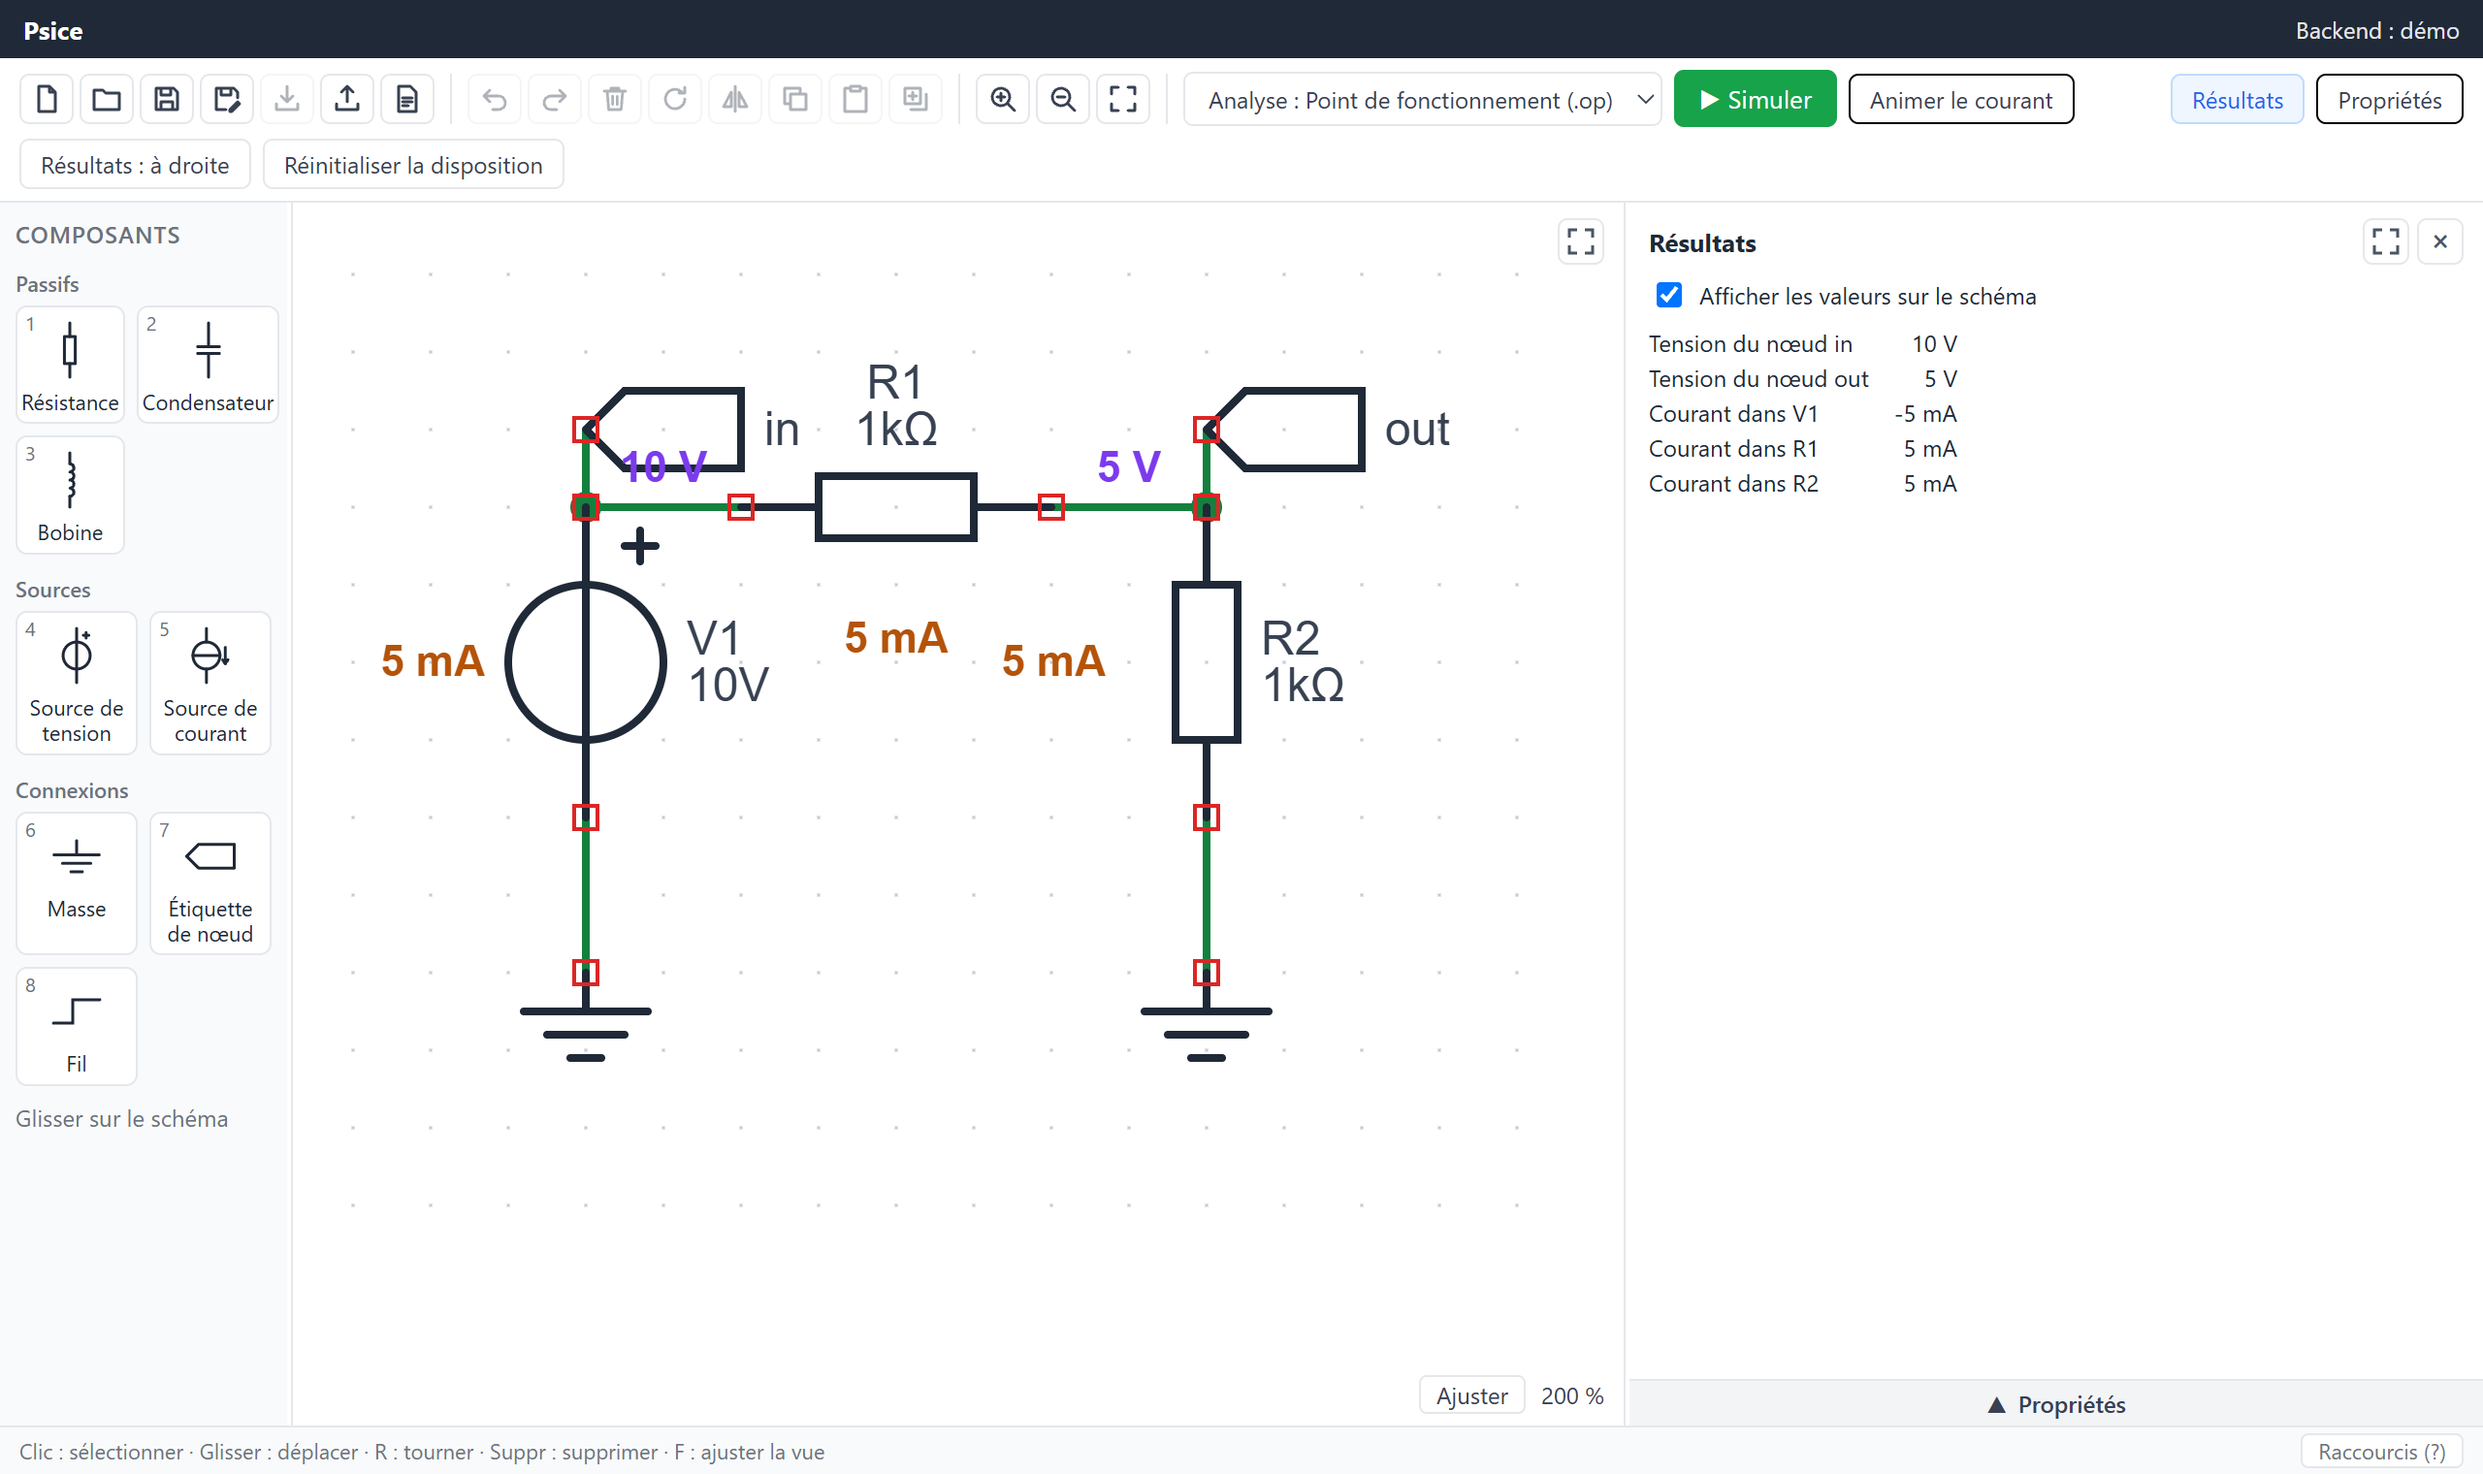
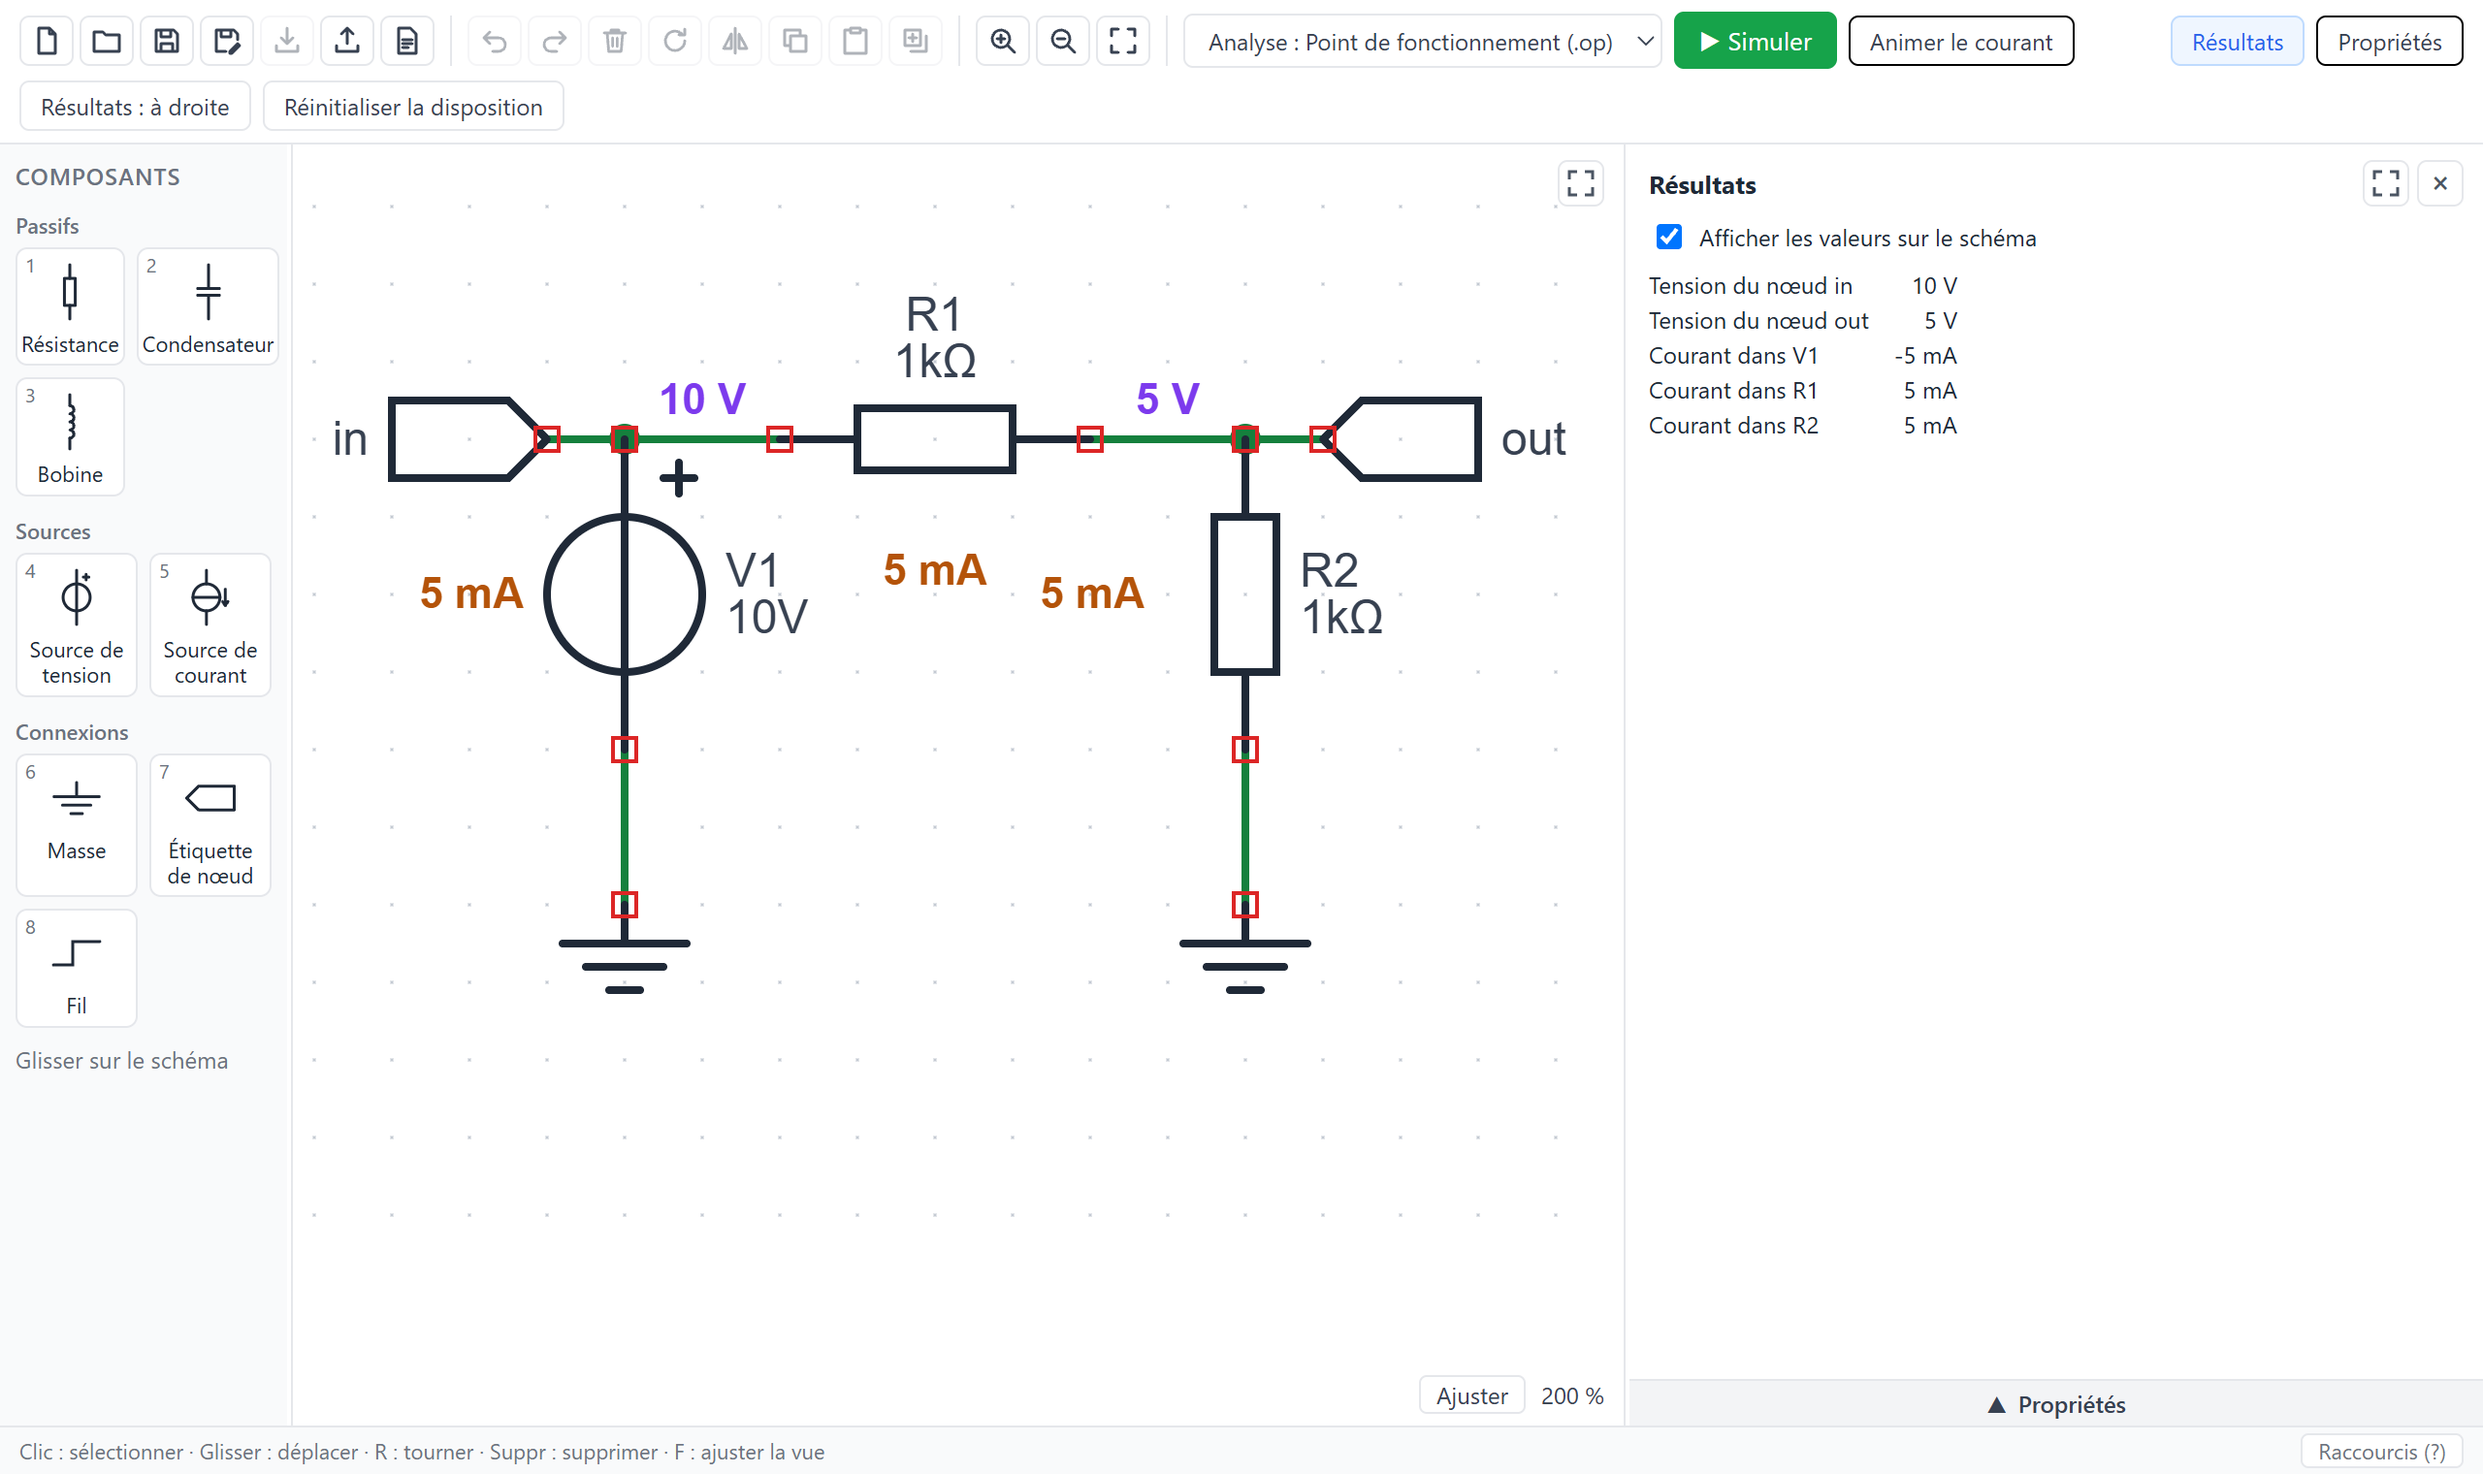
fix(fixtures): put the divider labels on each side of the top wire

diff --git a/docs/exemples-netlist.md b/docs/exemples-netlist.md
@@ -68,9 +68,9 @@ V1 = 10 V, R1 = R2 = 1 kΩ, point de fonctionnement `.op`.
         "rotation": 0, "mirror": false, "params": {} },
       { "id": "c5", "type": "ground", "position": { "x": 8, "y": 4 },
         "rotation": 0, "mirror": false, "params": {} },
-      { "id": "c6", "type": "label", "position": { "x": 0, "y": -3 },
-        "rotation": 0, "mirror": false, "params": { "net": "in" } },
-      { "id": "c7", "type": "label", "position": { "x": 8, "y": -3 },
+      { "id": "c6", "type": "label", "position": { "x": -1, "y": -2 },
+        "rotation": 180, "mirror": false, "params": { "net": "in" } },
+      { "id": "c7", "type": "label", "position": { "x": 9, "y": -2 },
         "rotation": 0, "mirror": false, "params": { "net": "out" } }
     ],
     "junctions": [],
@@ -153,9 +153,9 @@ Même câblage que l'exemple 1 : seuls V1, le 2ᵉ composant (C1 au lieu de R2) 
         "rotation": 0, "mirror": false, "params": {} },
       { "id": "c5", "type": "ground", "position": { "x": 8, "y": 4 },
         "rotation": 0, "mirror": false, "params": {} },
-      { "id": "c6", "type": "label", "position": { "x": 0, "y": -3 },
-        "rotation": 0, "mirror": false, "params": { "net": "in" } },
-      { "id": "c7", "type": "label", "position": { "x": 8, "y": -3 },
+      { "id": "c6", "type": "label", "position": { "x": -1, "y": -2 },
+        "rotation": 180, "mirror": false, "params": { "net": "in" } },
+      { "id": "c7", "type": "label", "position": { "x": 9, "y": -2 },
         "rotation": 0, "mirror": false, "params": { "net": "out" } }
     ],
     "junctions": [],
